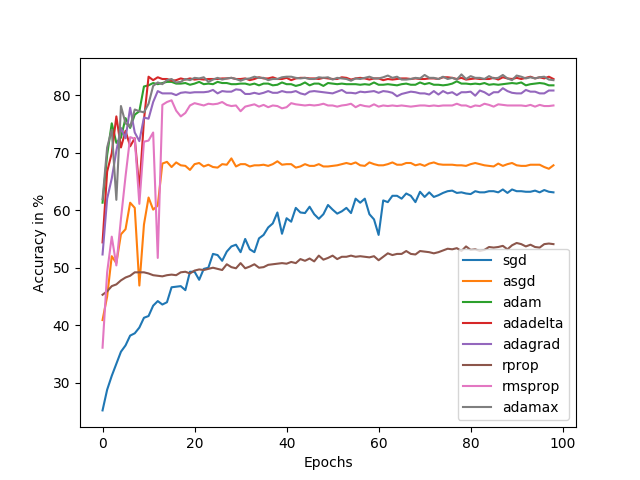
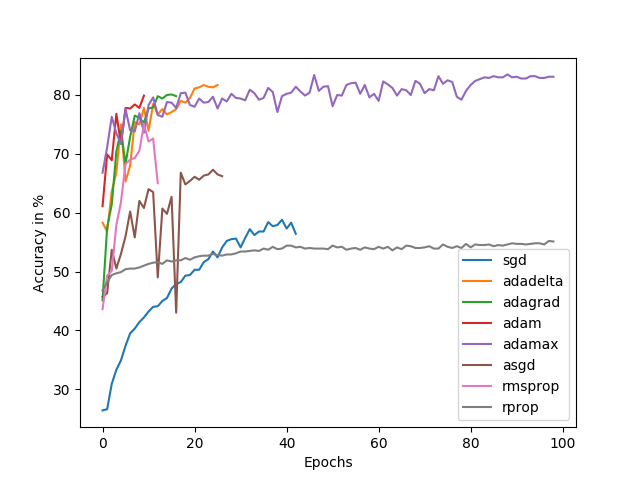
Ingeborg fixed plots

diff --git a/plot.py b/plot.py
@@ -7,8 +7,8 @@ import matplotlib.pyplot as plt
 
 def get_args():
     parser = argparse.ArgumentParser(description='Plot the results')
-    parser.add_argument('--input_path', '-i', metavar='STRING', default='plots/output', help="Where we find the input")
-    parser.add_argument('--log_path', '-l', metavar='STRING', default='plots/logs', help="Where we find the logs")
+    parser.add_argument('--input_path', '-i', metavar='STRING', default='output', help="Where we find the input")
+    parser.add_argument('--log_path', '-l', metavar='STRING', default='logs', help="Where we find the logs")
     parser.add_argument('--output_path', '-o', metavar='STRING', default='plots', help="Where we store the output")
     return parser.parse_args()
 
@@ -19,8 +19,11 @@ class Plotter(object):
         self.args = get_args()
         self.fileNames = os.listdir(self.args.input_path)
         self.accuracy_files = [file for file in self.fileNames if 'accuracy.csv' in file]
+        self.accuracy_files.sort()
         self.validation_files = [file for file in self.fileNames if 'val_loss.csv' in file]
+        self.validation_files.sort()
         self.train_files = [file for file in self.fileNames if 'train_loss.csv' in file]
+        self.train_files.sort()
         self.labels = {}
 
     def plot_accuracy(self):
